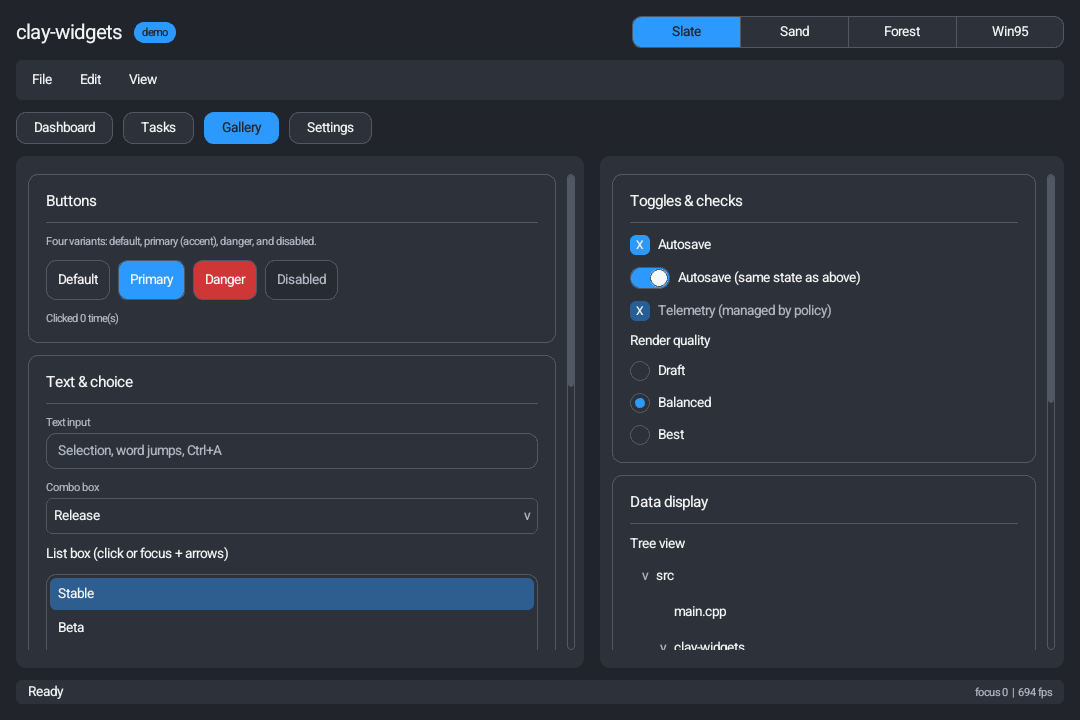
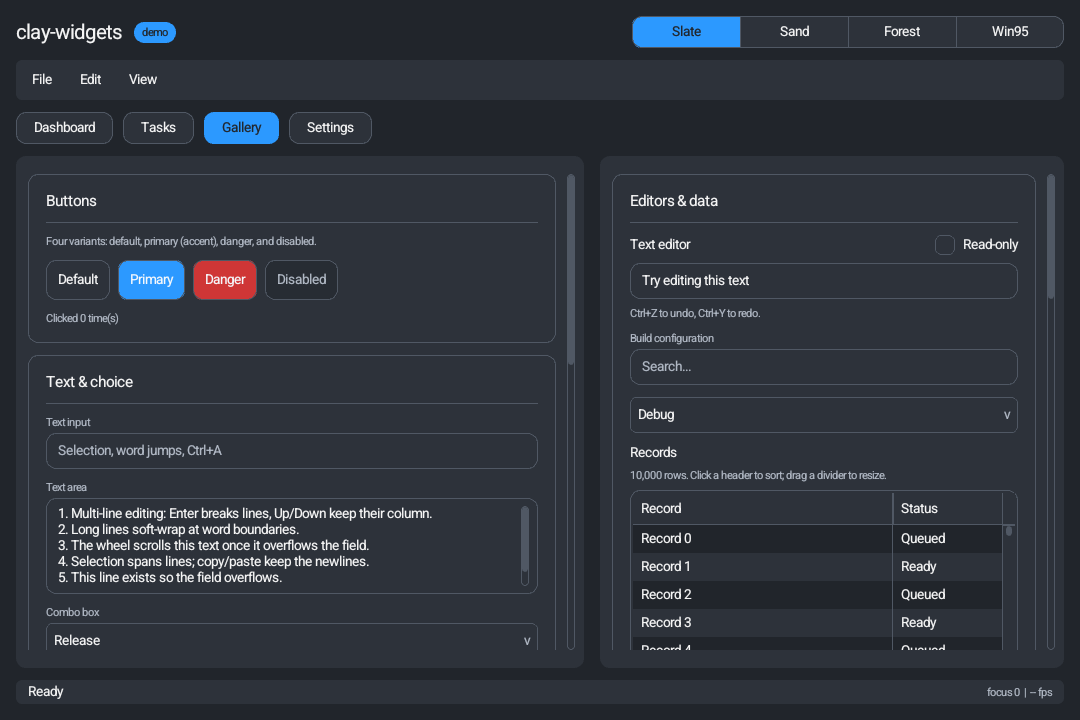
demo: make --shot captures reproducible, refresh screenshots
Screenshots are about to be regenerated by CI on every push, so a capture
of an unchanged view has to be byte-identical or every push would commit a
new set of PNGs. Two things varied per run:

  - the status bar and the Settings diagnostics card drew a live frame rate
  - without --mouse, the real cursor position leaked into the injected
    input, so a hover highlight (and the "Pointer: x, y" readout) depended
    on where the mouse happened to be

--shot now sets DemoState::deterministic, which prints "-- fps" in both
places, and parks the pointer off-screen when no pointer is scripted.
Interactive runs are unaffected.

Also regenerates the four panel PNGs. The Gallery capture predated the
"Editors & data" card, so it was missing the data table, searchable combo,
split pane and history editor the README describes.

diff --git a/demo/main.cpp b/demo/main.cpp
@@ -230,6 +230,7 @@ int main(int argc, char **argv) {
     DemoState demo;
     SeedTasks(demo);
 
+    demo.deterministic = shotPath != nullptr;
     if (shotView >= kViewDashboard && shotView <= kViewSettings) {
         demo.activeView = shotView;
     }
@@ -326,6 +327,17 @@ int main(int argc, char **argv) {
             input.pointerPressed = press && !rightClick;
             input.pointerReleased = release && !rightClick;
             input.pointerRightPressed = press && rightClick;
+        }
+        // No scripted pointer: park it off-screen so the real cursor's position
+        // can't leak a hover highlight (or a "Pointer: x, y" readout) into the
+        // capture, which would differ from run to run.
+        if (shotPath && forceMouseX < 0.0f) {
+            input.mouseX = -1.0f;
+            input.mouseY = -1.0f;
+            input.pointerDown = false;
+            input.pointerPressed = false;
+            input.pointerReleased = false;
+            input.pointerRightPressed = false;
         }
         if (shotPath && forceScrollY != 0.0f) {
             // Feed the wheel delta on every frame but the last, so the panel has

diff --git a/demo/screens/settings.h b/demo/screens/settings.h
@@ -45,7 +45,11 @@ static void DrawSettingsView(ClayWidgets_Context &ui, DemoState &s) {
             ClayWidgets_Label(&ui, FormatString(s, "Screen: %d x %d", GetScreenWidth(), GetScreenHeight()));
             ClayWidgets_Label(&ui, FormatString(s, "Pointer: %.0f, %.0f", ui.input.mouseX, ui.input.mouseY));
             ClayWidgets_Label(&ui, FormatString(s, "Focused widget id: %u", ui.focusedId));
-            ClayWidgets_Label(&ui, FormatString(s, "Frame rate: %d fps", GetFPS()));
+            if (s.deterministic) {
+                ClayWidgets_Label(&ui, FormatString(s, "Frame rate: -- fps"));
+            } else {
+                ClayWidgets_Label(&ui, FormatString(s, "Frame rate: %d fps", GetFPS()));
+            }
             ClayWidgets_Label(&ui, FormatString(s, "Animations: %s", ui.animationsEnabled ? "on" : "off"));
 
             ClayWidgets_Separator(&ui);

diff --git a/demo/demo-state.h b/demo/demo-state.h
@@ -169,6 +169,12 @@ constexpr int32_t kScratchBytes = 128;
 struct DemoState {
     int32_t activeView = kViewDashboard;
 
+    // Set by --shot. Live readouts (frame rate) are replaced with a placeholder
+    // so a capture of the same view is byte-identical every run - CI commits
+    // the regenerated PNGs, and a per-run frame rate would make every push a
+    // diff. Does not affect normal interactive runs.
+    bool deterministic = false;
+
     // Tasks
     DemoTask tasks[kMaxTasks] = {};
     int32_t taskCount = 0;

diff --git a/demo/chrome.h b/demo/chrome.h
@@ -138,7 +138,11 @@ static void DrawStatusBar(ClayWidgets_Context &ui, DemoState &s) {
             },
         }) {}
 
-        MutedLabel(ui, FormatString(s, "focus %u  |  %d fps", ui.focusedId, GetFPS()));
+        if (s.deterministic) {
+            MutedLabel(ui, FormatString(s, "focus %u  |  -- fps", ui.focusedId));
+        } else {
+            MutedLabel(ui, FormatString(s, "focus %u  |  %d fps", ui.focusedId, GetFPS()));
+        }
     }
 }
 
